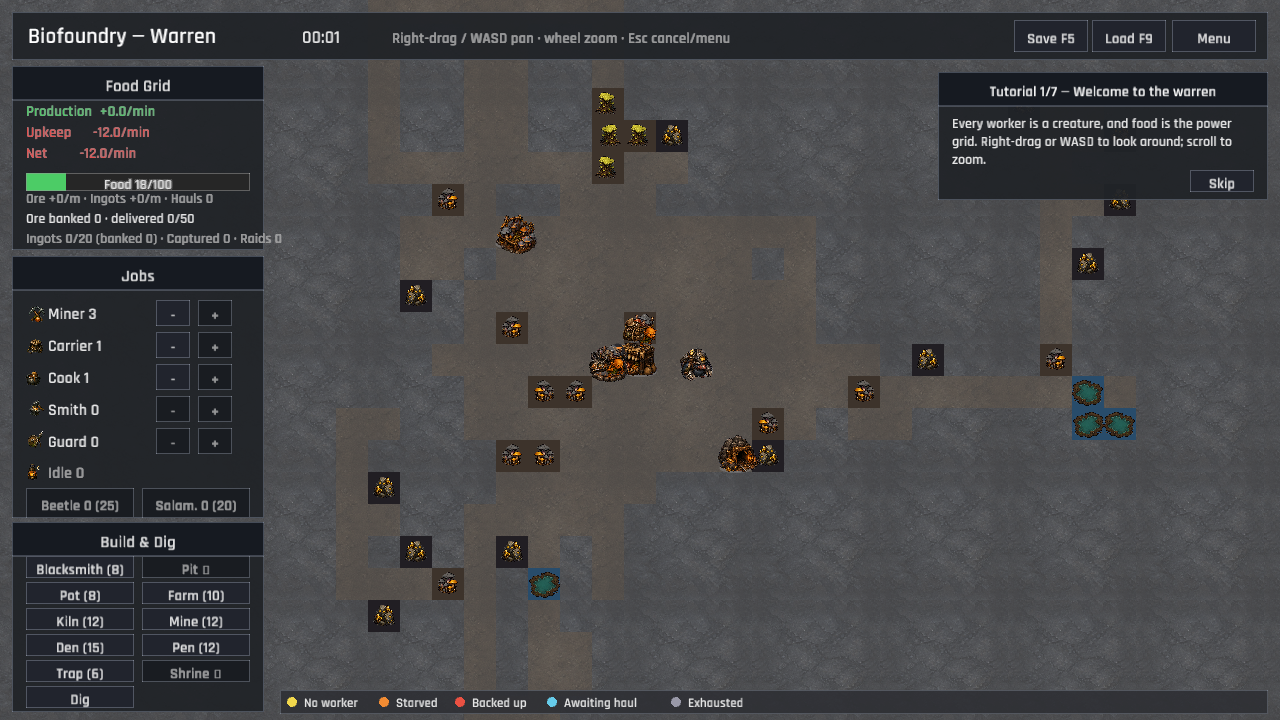
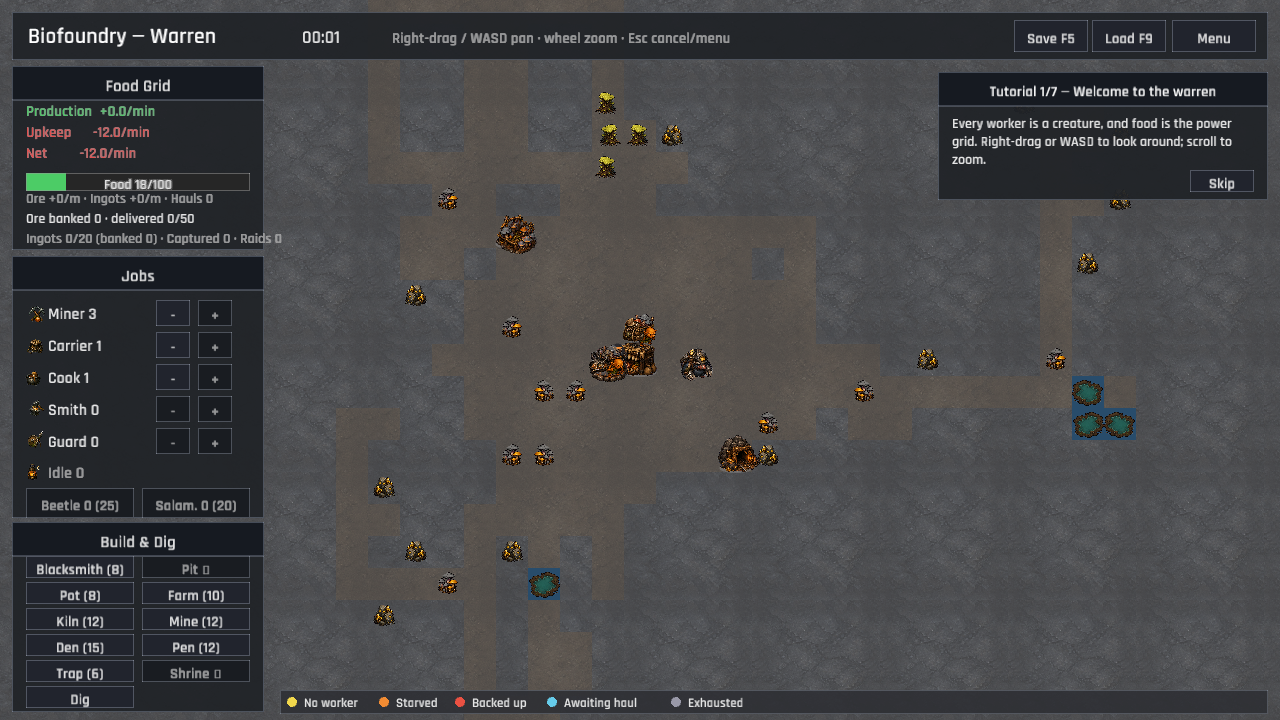
The colony floor continues beneath every gathered vein (resource substrate rendering)
The resource PNGs already had transparency, but resource tiles were only filled with a flat color before the sprites were drawn. Their clear pixels therefore exposed a dark square instead of the textured floor or rock around them. Resource tiles now receive the matching ground patch first—rock for ore, floor for mushrooms and sporewood—then draw the transparent illustration above it.\n\nVerified with the warren capture, cargo test, and .\\publish.ps1 for Windows and WebGL preview deployment.\n\nCo-Authored-By: GPT-5 <noreply@openai.com>

diff --git a/src/ui/warren/sprites.rs b/src/ui/warren/sprites.rs
@@ -88,6 +88,11 @@ pub fn draw_terrain_tile(sprites: &WorldSprites, tile: Tile, pos: TilePos, ts: f
     };
     let center = vec2((pos.x as f32 + 0.5) * ts, (pos.y as f32 + 0.5) * ts);
     let is_ground = matches!(tile, Tile::Rock | Tile::Floor);
+    let substrate_frame = match tile {
+        Tile::OreVein => Some(3),
+        Tile::MushroomPatch | Tile::Sporewood => Some(0),
+        _ => None,
+    };
     let atlas = if is_ground {
         &sprites.ground
     } else {
@@ -97,6 +102,16 @@ pub fn draw_terrain_tile(sprites: &WorldSprites, tile: Tile, pos: TilePos, ts: f
         Tile::Rock | Tile::Floor => Color::new(1.0, 1.0, 1.0, 0.72),
         _ => WHITE,
     };
+    if let Some(substrate_frame) = substrate_frame {
+        draw_ground_patch(
+            &sprites.ground,
+            substrate_frame,
+            pos,
+            center,
+            ts,
+            Color::new(1.0, 1.0, 1.0, 0.72),
+        );
+    }
     if is_ground {
         draw_ground_patch(atlas, frame, pos, center, ts, tint);
     } else {
